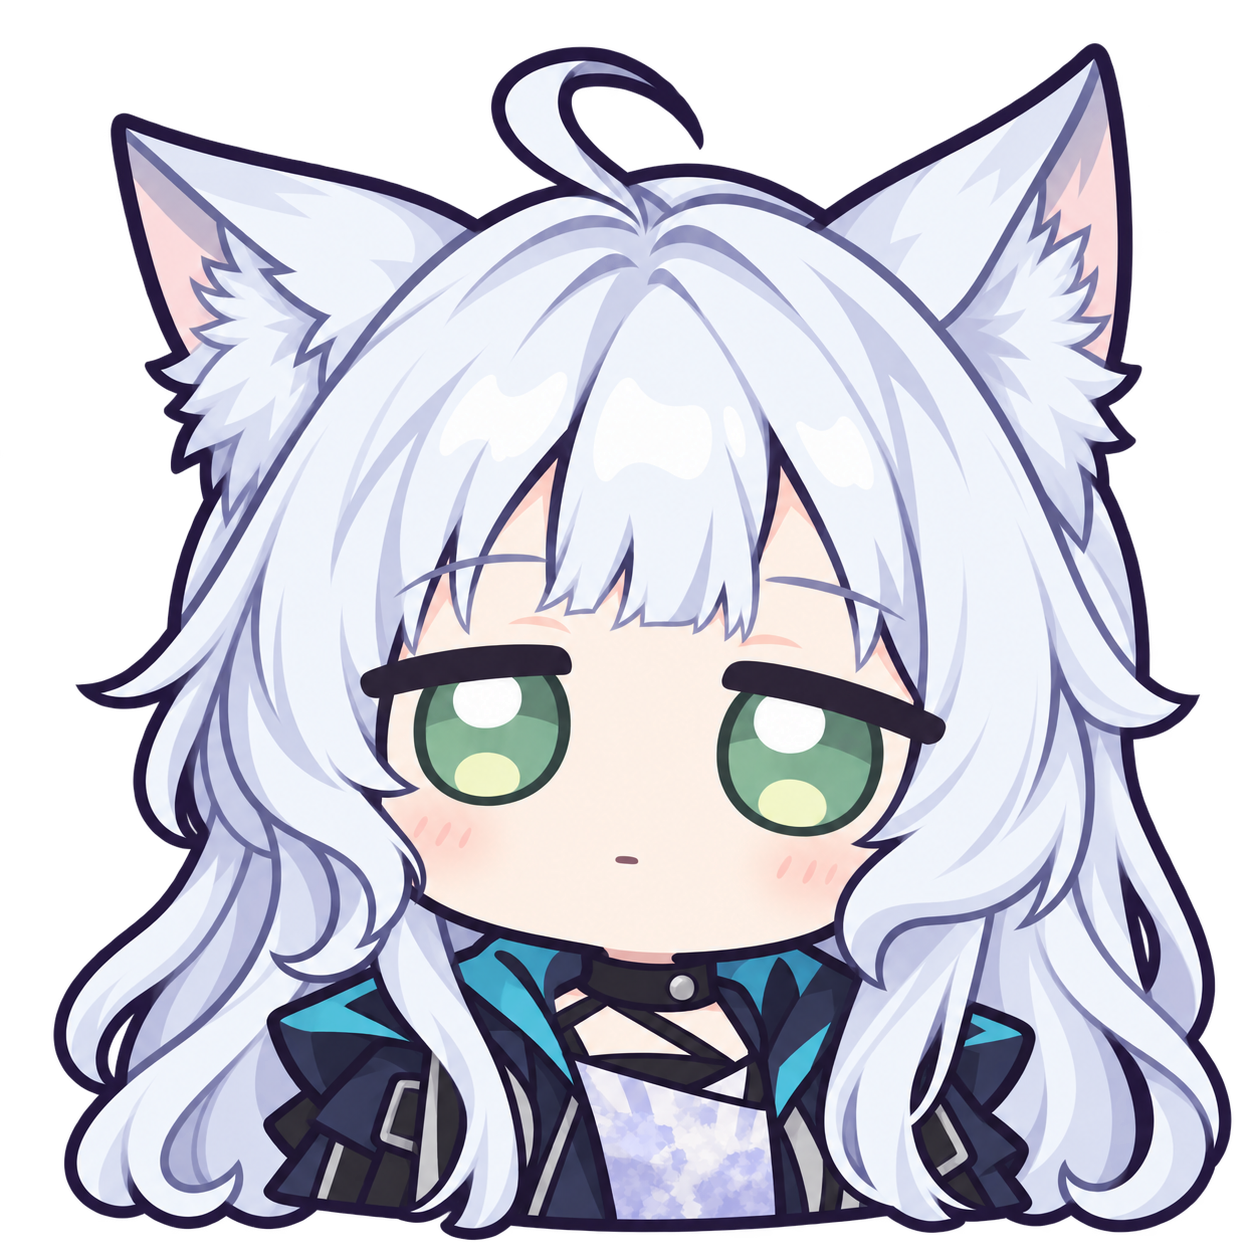
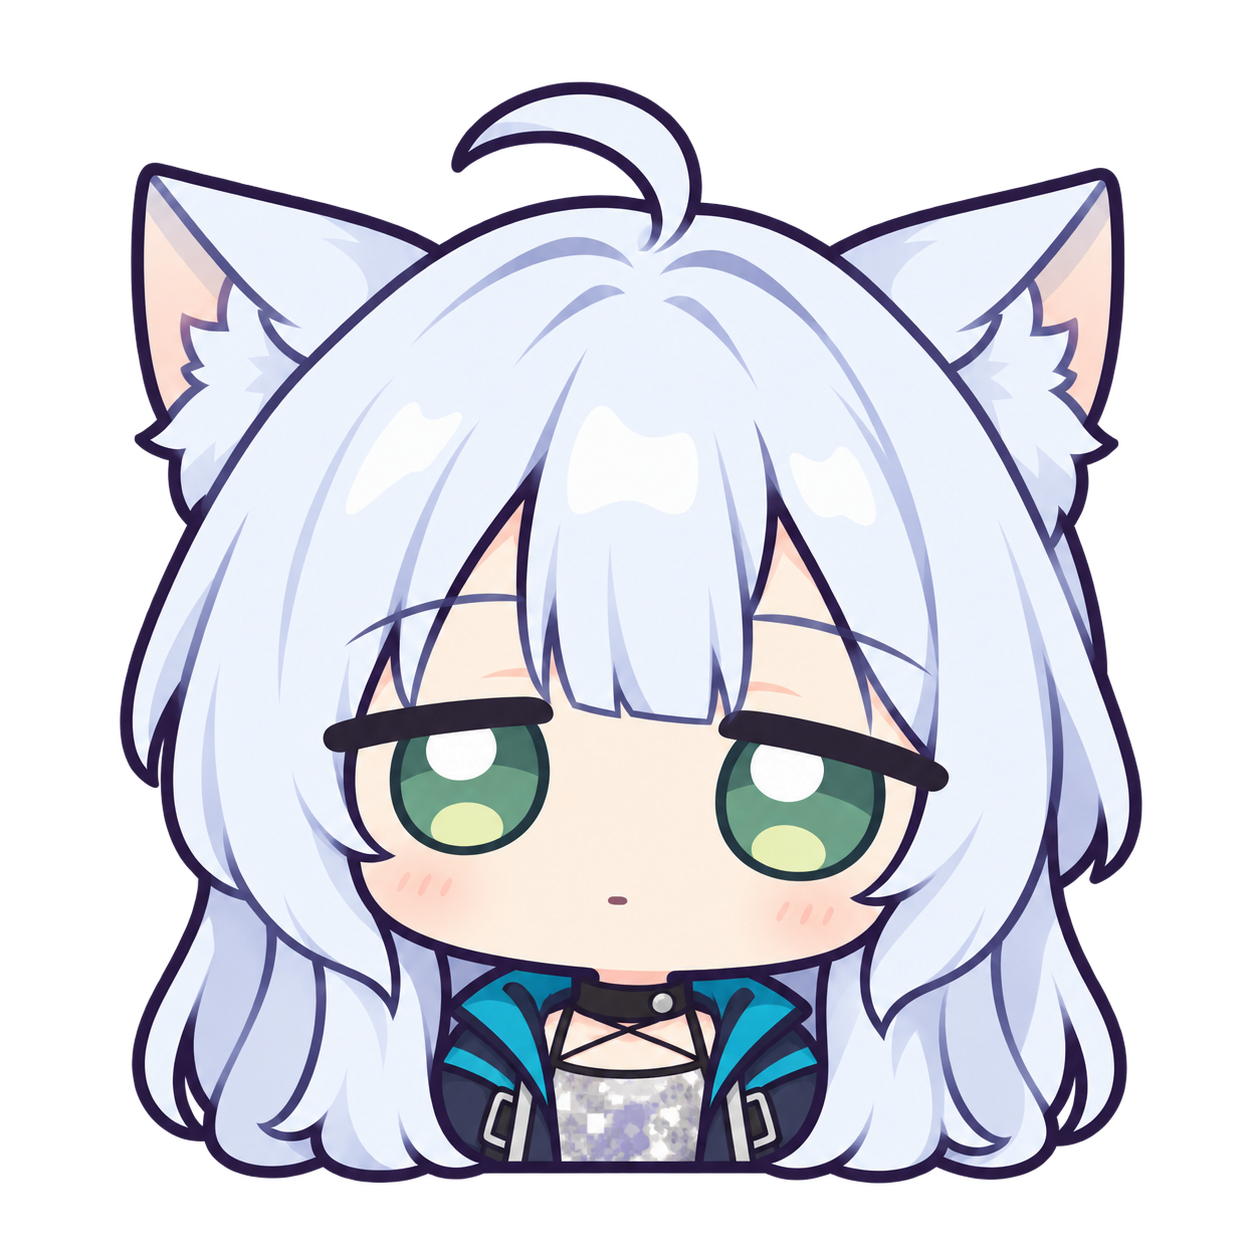
Update Rosmontis sprite and fix Windows autostart paths

diff --git a/README.md b/README.md
@@ -11,14 +11,14 @@
 - 将默认白紫 GPT 龙娘换为迷迭香同人形象：银灰发、绿眼、猫耳、深蓝与青绿色服装，整理头发并去掉耳机。图片经过 AI 生成与修改，属于非官方同人改编。
 - 替换为 48 条短互动台词，包含俏皮吐槽、轻微嘴欠和对 AI 编答案的自嘲；台词是玩笑，不是事实说明，也不是原作官方台词。可在 [docs/dialogue.json](docs/dialogue.json) 查看。
 - 改为独立的 `rosmontis-pet` 插件与数据目录，更新名称、图标和托盘文字。
-- 修复 Windows 启动：插件的 MCP 服务加载时启动或复用挂件，并使用 PowerShell，避免系统缺少 VBS 引擎时无法启动。新增 `.cmd` 安装与启停入口。
+- 修复 Windows 启动：插件的 MCP 服务加载时启动或复用挂件，并使用 PowerShell，避免系统缺少 VBS 引擎时无法启动。新增 `.cmd` 安装与启停入口。1.0.4 还修正了商店版 Codex 的路径隔离，并同步已有挂件启动任务到新版，避免登录后找不到启动文件或启动旧图。
 
 窗口跟随、按压动画、音效、资源编辑、用量记录、可授权的站点余额等主要能力继续使用上游实现。没有重新编写整个挂件框架。
 
 ## 安装与使用（Windows x64）
 
 1. 安装支持本地插件的 Codex 桌面应用。
-2. 从 [Releases](https://github.com/BestKittyRosmontis/codex-rosmontis-pet/releases/latest) 下载 `Codex-Rosmontis-Pet-1.0.2-Windows.zip`，完整解压到一个固定位置。
+2. 从 [Releases](https://github.com/BestKittyRosmontis/codex-rosmontis-pet/releases/latest) 下载当前版本的 Windows 完整安装 ZIP，完整解压到一个固定位置。
 3. 双击 **`Install.cmd`**。安装器会校验文件、注册并启用本地插件，随后启动挂件。无需管理员权限，发布包已经包含 Electron。
 4. 在 Codex 中新开一个会话让插件加载。以后从普通 Codex 入口使用即可；挂件跟随 Codex 窗口，关闭窗口后隐藏。安装器还会注册当前用户登录启动项，让守护进程等待 Codex。
 
@@ -30,7 +30,7 @@
 powershell.exe -NoProfile -ExecutionPolicy Bypass -File .\scripts\install-dragon-plugin.ps1
 ```
 
-安装后的程序位于 `%LOCALAPPDATA%\CodexRosmontisPet`，挂件配置位于 `%USERPROFILE%\.codex\rosmontis-pet`。卸载保留个人配置与历史；这些内容不在分享包中。余额查询需要每位使用者自行配置或授权自己的账户。Token 来自本机可读取的 Codex 记录；估算费用不等于站点实际扣费，缺少数据时不会据此保证余额准确。
+安装器将程序放在当前用户的本地应用数据目录。商店版 Codex 可能将该目录重定向到 `%LOCALAPPDATA%\Packages\OpenAI.Codex_*\LocalCache\Local\CodexRosmontisPet`；安装回执的 `target` 字段记录实际位置。挂件配置位于 `%USERPROFILE%\.codex\rosmontis-pet`。卸载保留个人配置与历史；这些内容不在分享包中。余额查询需要每位使用者自行配置或授权自己的账户。Token 来自本机可读取的 Codex 记录；估算费用不等于站点实际扣费，缺少数据时不会据此保证余额准确。
 
 ## 从源码构建
 
@@ -49,3 +49,15 @@ npm run build:windows
 保留上游 [MIT LICENSE](LICENSE) 和署名。代码许可不自动覆盖角色图片、动图、音效等素材；本仓库不授予额外素材权利。迷迭香为《明日方舟》角色，本仓库不是相关权利方或 OpenAI 的官方项目。
 
 当前发布针对 Windows x64。本次验证包括图片路由、角色名称、48 条台词，以及实际安装后的可见性、无需调用显示工具的 MCP 初始化启动与守护进程复用。未验证 macOS / Linux，也没有重跑上游所有功能测试。Codex 窗口或日志格式更新后可能需要适配。
+
+## 1.0.4 更新
+
+采用已确认的 v5 形象，修正头发、正面衣服方向、银灰印花内搭和细交叉带；保持互动与用量功能。启动路径使用文件的实际位置，普通 Windows 启动环境也能访问。已有属于本挂件的旧计划任务会同步到当前版本；新安装仍使用当前用户启动项与 MCP 加载启动。
+
+可在已安装并启用挂件的 Windows 账户中运行下面的检查。它临时注册一个当前用户测试任务，检查结束后移除该测试任务：
+
+```powershell
+powershell.exe -NoProfile -ExecutionPolicy Bypass -File .\scripts\verify-windows-startup.ps1
+```
+
+DeepSeek 官方余额查询由上游内置功能提供，每位使用者需要通过挂件的 API 设置自行保存自己的密钥。本仓库和安装包不包含个人账户配置。

diff --git a/docs/agents/issue-tracker.md b/docs/agents/issue-tracker.md
@@ -1,0 +1,34 @@
+# Issue tracker: Local Markdown
+
+Issues and specs for this repo live as markdown files in `.scratch/`.
+
+## Conventions
+
+- One feature per directory: `.scratch/<feature-slug>/`
+- The spec is `.scratch/<feature-slug>/spec.md`
+- Implementation issues are one file per ticket at `.scratch/<feature-slug>/issues/<NN>-<slug>.md`, numbered from `01`, never a single combined tickets file
+- Triage state is recorded as a `Status:` line near the top of each issue file (see `triage-labels.md` for the role strings)
+- Comments and conversation history append to the bottom of the file under a `## Comments` heading
+
+## When a skill says "publish to the issue tracker"
+
+Create a new file under `.scratch/<feature-slug>/` (creating the directory if needed).
+
+## When a skill says "fetch the relevant ticket"
+
+Read the file at the referenced path. The user will normally pass the path or the issue number directly.
+
+## Wayfinding operations
+
+Used by `/wayfinder`. The **map** is a file with one **child** file per ticket.
+
+- **Map**: `.scratch/<effort>/map.md` (the Notes / Decisions-so-far / Fog body).
+- **Child ticket**: `.scratch/<effort>/issues/NN-<slug>.md`, numbered from `01`, with the question in the body. A `Type:` line records the ticket type (`research`/`prototype`/`grilling`/`task`); a `Status:` line records `claimed`/`resolved`.
+- **Blocking**: a `Blocked by: NN, NN` line near the top. A ticket is unblocked when every file it lists is `resolved`.
+- **Frontier**: scan `.scratch/<effort>/issues/` for files that are open, unblocked, and unclaimed; first by number wins.
+- **Claim**: set `Status: claimed` and save before any work.
+- **Resolve**: append the answer under an `## Answer` heading, set `Status: resolved`, then append a context pointer (gist + link) to the map's Decisions-so-far in `map.md`.
+
+## Publication boundary
+
+Remote issue, comment, label and release publication requires authorization for the current task. A Git remote does not change this local workflow.

diff --git a/PROVENANCE.md b/PROVENANCE.md
@@ -23,7 +23,7 @@
 
 ## 图片与台词
 
-当前 `assets/rosmontis.png` 为基于角色参考与上游 chibi 风格进行 AI 生成/修改的非官方迷迭香同人图。去掉耳机、整理头发的版本作为默认形象。兼容用的 `gpt-dragon.png`、`DSniang1.png`、`DSniang02.png` 等文件名仍在，默认内容也已替换为这张图；文件名不表示它们仍是原角色。
+当前 `assets/rosmontis.png` 为基于角色参考与上游 chibi 风格进行 AI 生成/修改的非官方迷迭香同人图。当前默认图采用已确认的 v5：整理头发，收正身体方向，修正浅领口、细交叉带与银灰印花内搭，并去掉耳机。兼容用的 `gpt-dragon.png`、`DSniang1.png`、`DSniang02.png` 等文件名仍在，默认内容也已替换为这张图；文件名不表示它们仍是原角色。
 
 互动台词是为此挂件改写的短玩笑，包含轻微吐槽和 AI 幻觉自嘲，不是角色原作台词，不作为事实性答复使用。保留的旧图、动图和音效仍按上游素材边界分发，没有因代码 MIT 而扩大授权。
 

diff --git a/docs/agents/triage-labels.md b/docs/agents/triage-labels.md
@@ -1,0 +1,15 @@
+# Triage Labels
+
+The skills speak in terms of five canonical triage roles. This file maps those roles to the actual label strings used in this repo's issue tracker.
+
+| Label in mattpocock/skills | Label in our tracker | Meaning                                  |
+| -------------------------- | -------------------- | ---------------------------------------- |
+| `needs-triage`             | `needs-triage`       | Maintainer needs to evaluate this issue  |
+| `needs-info`               | `needs-info`         | Waiting on reporter for more information |
+| `ready-for-agent`          | `ready-for-agent`    | Fully specified, ready for an AFK agent  |
+| `ready-for-human`          | `ready-for-human`    | Requires human implementation            |
+| `wontfix`                  | `wontfix`            | Will not be actioned                     |
+
+When a skill mentions a role (e.g. "apply the AFK-ready triage label"), use the corresponding label string from this table.
+
+Edit the "Label in our tracker" column to match whatever vocabulary you actually use.

diff --git a/AGENTS.md b/AGENTS.md
@@ -1,0 +1,19 @@
+# Project instructions
+
+This is a partial Rosmontis fan-art adaptation of the community Codex Dragon Pet. Preserve the upstream credits and the asset license boundaries documented in `PROVENANCE.md` and `THIRD_PARTY_NOTICES.md`.
+
+Use the user-approved character asset and preserve existing interaction, usage, balance and normal Codex startup behavior. Back up an accepted asset before replacing it. Install validated packages through the existing installer; keep account configuration in the user data directory.
+
+## Agent skills
+
+### Issue tracker
+
+When planning work or recording task progress, use local Markdown under `.scratch/<feature>/`. Read `docs/agents/issue-tracker.md` for the workflow.
+
+### Triage labels
+
+When classifying a local task, use the mapping in `docs/agents/triage-labels.md`.
+
+### Domain docs
+
+When exploring terminology or architectural choices, follow the single-context rules in `docs/agents/domain.md`.

diff --git a/docs/agents/domain.md b/docs/agents/domain.md
@@ -1,0 +1,5 @@
+# Domain docs
+
+This is a single-context application. Domain terms belong in root `GLOSSARY.md`; architectural decisions belong in `docs/adr/`. Vendored dependencies do not form separate project contexts.
+
+Before investigating a feature, read the glossary if it exists and the ADRs relevant to that feature. If either is absent, continue without creating placeholder terms or decisions. Use established glossary terms and identify conflicts with an existing ADR when proposing changes.
